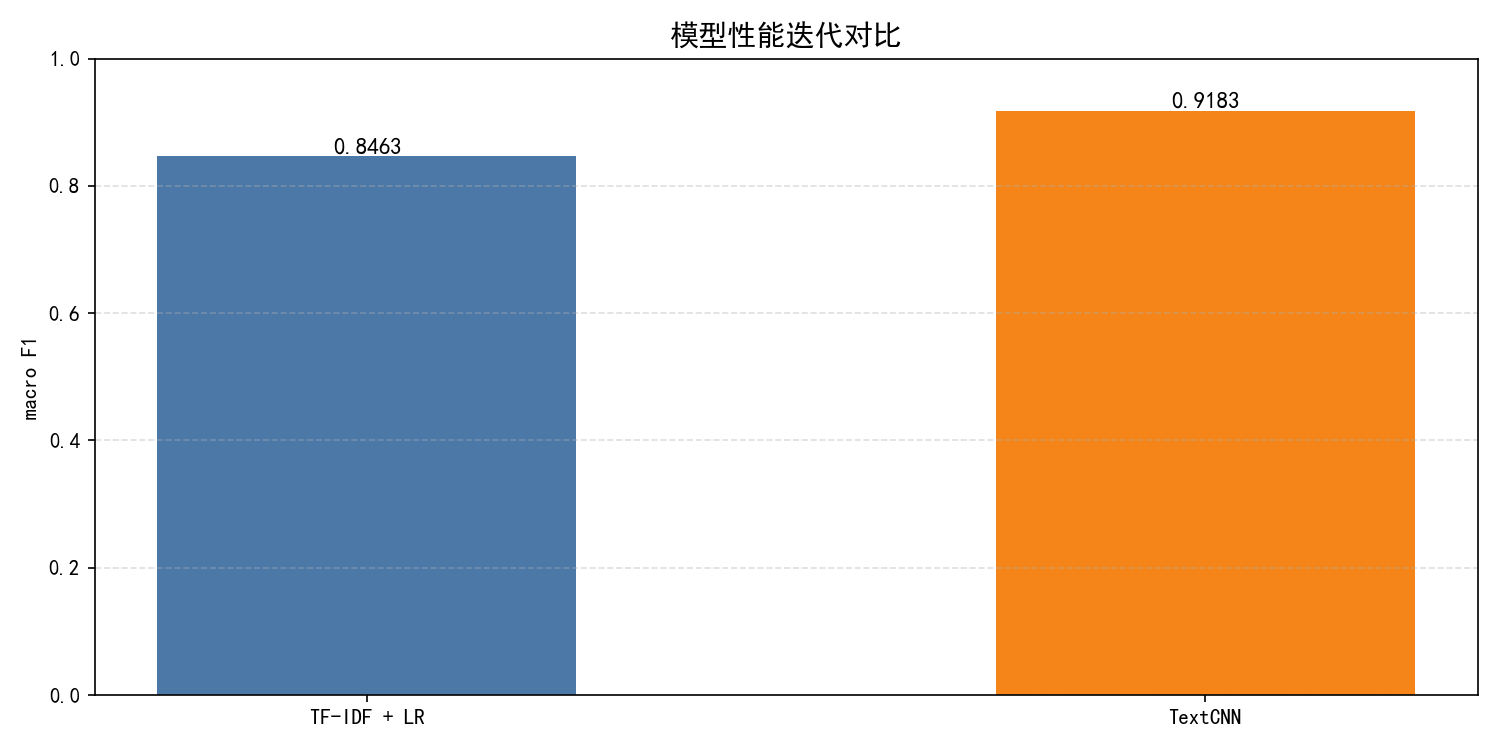
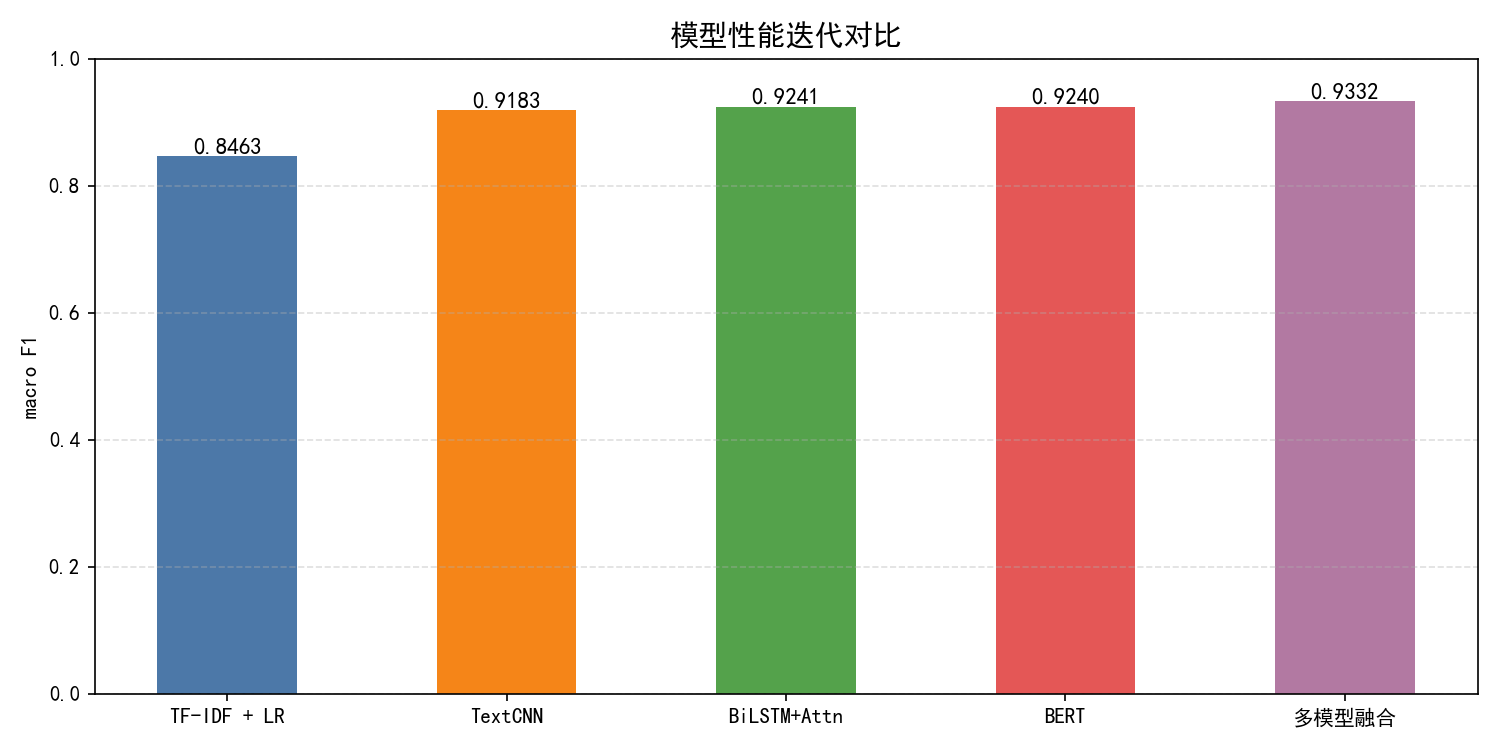
更新性能迭代可视化：加入 BiLSTM+Attn 与多模型融合
- plot_scores: MODEL_ORDER 补上多模型融合，对比图纳入最高分 0.9332
- 重生成 score_comparison / score_trend 两张图（含 5 模型）
- scores.csv 修正融合 note 措辞（硬编码→硬投票）

diff --git a/src/plot_scores.py b/src/plot_scores.py
@@ -26,6 +26,7 @@ MODEL_ORDER = [
     ("word2vec_textcnn", "TextCNN"),
     ("word2vec_bilstm_attn", "BiLSTM+Attn"),
     ("bert", "BERT"),
+    ("ensemble", "多模型融合"),
 ]
 # 取每个模型的最好一次实验
 def _best(df):
@@ -51,7 +52,7 @@ def main():
 
     # 柱状图
     fig, ax = plt.subplots(figsize=(10, 5))
-    colors = ["#4C78A8", "#F58518", "#54A24B", "#E45756"][:len(best)]
+    colors = ["#4C78A8", "#F58518", "#54A24B", "#E45756", "#B279A2"][:len(best)]
     bars = ax.bar(best["name"], best["cv_f1"], color=colors, width=0.5)
     for b, v in zip(bars, best["cv_f1"]):
         ax.text(b.get_x() + b.get_width()/2, v, f"{v:.4f}",
@@ -68,7 +69,7 @@ def main():
     # 折线图（迭代上升趋势）
     fig, ax = plt.subplots(figsize=(10, 5))
     ax.plot(best["name"], best["cv_f1"], marker="o", linewidth=2, color="#4C78A8")
-    for i, (name, v) in enumerate(zip(best["name"], best["cv_f1"])):
+    for name, v in zip(best["name"], best["cv_f1"]):
         ax.annotate(f"{v:.4f}", (name, v), textcoords="offset points",
                     xytext=(0, 10), ha="center", fontsize=10)
     ax.set_ylim(0.8, 1.0)
